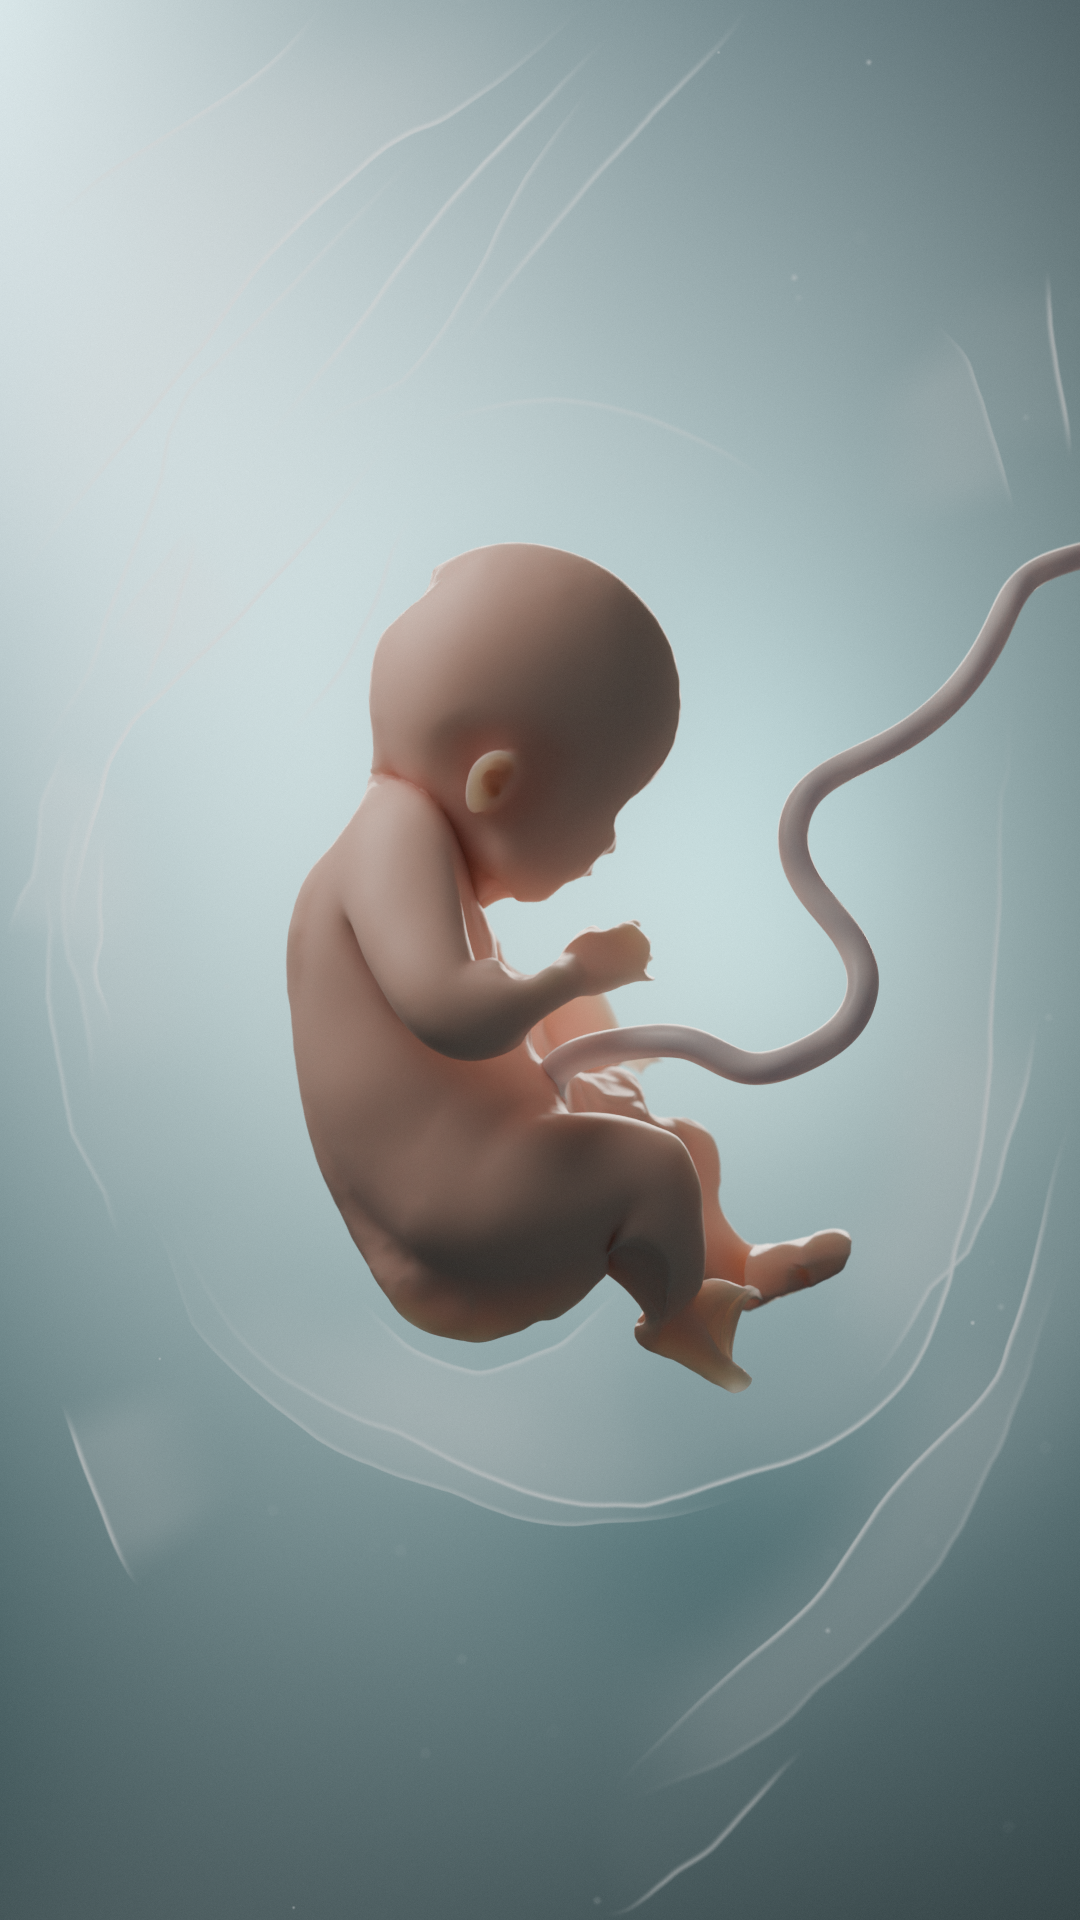
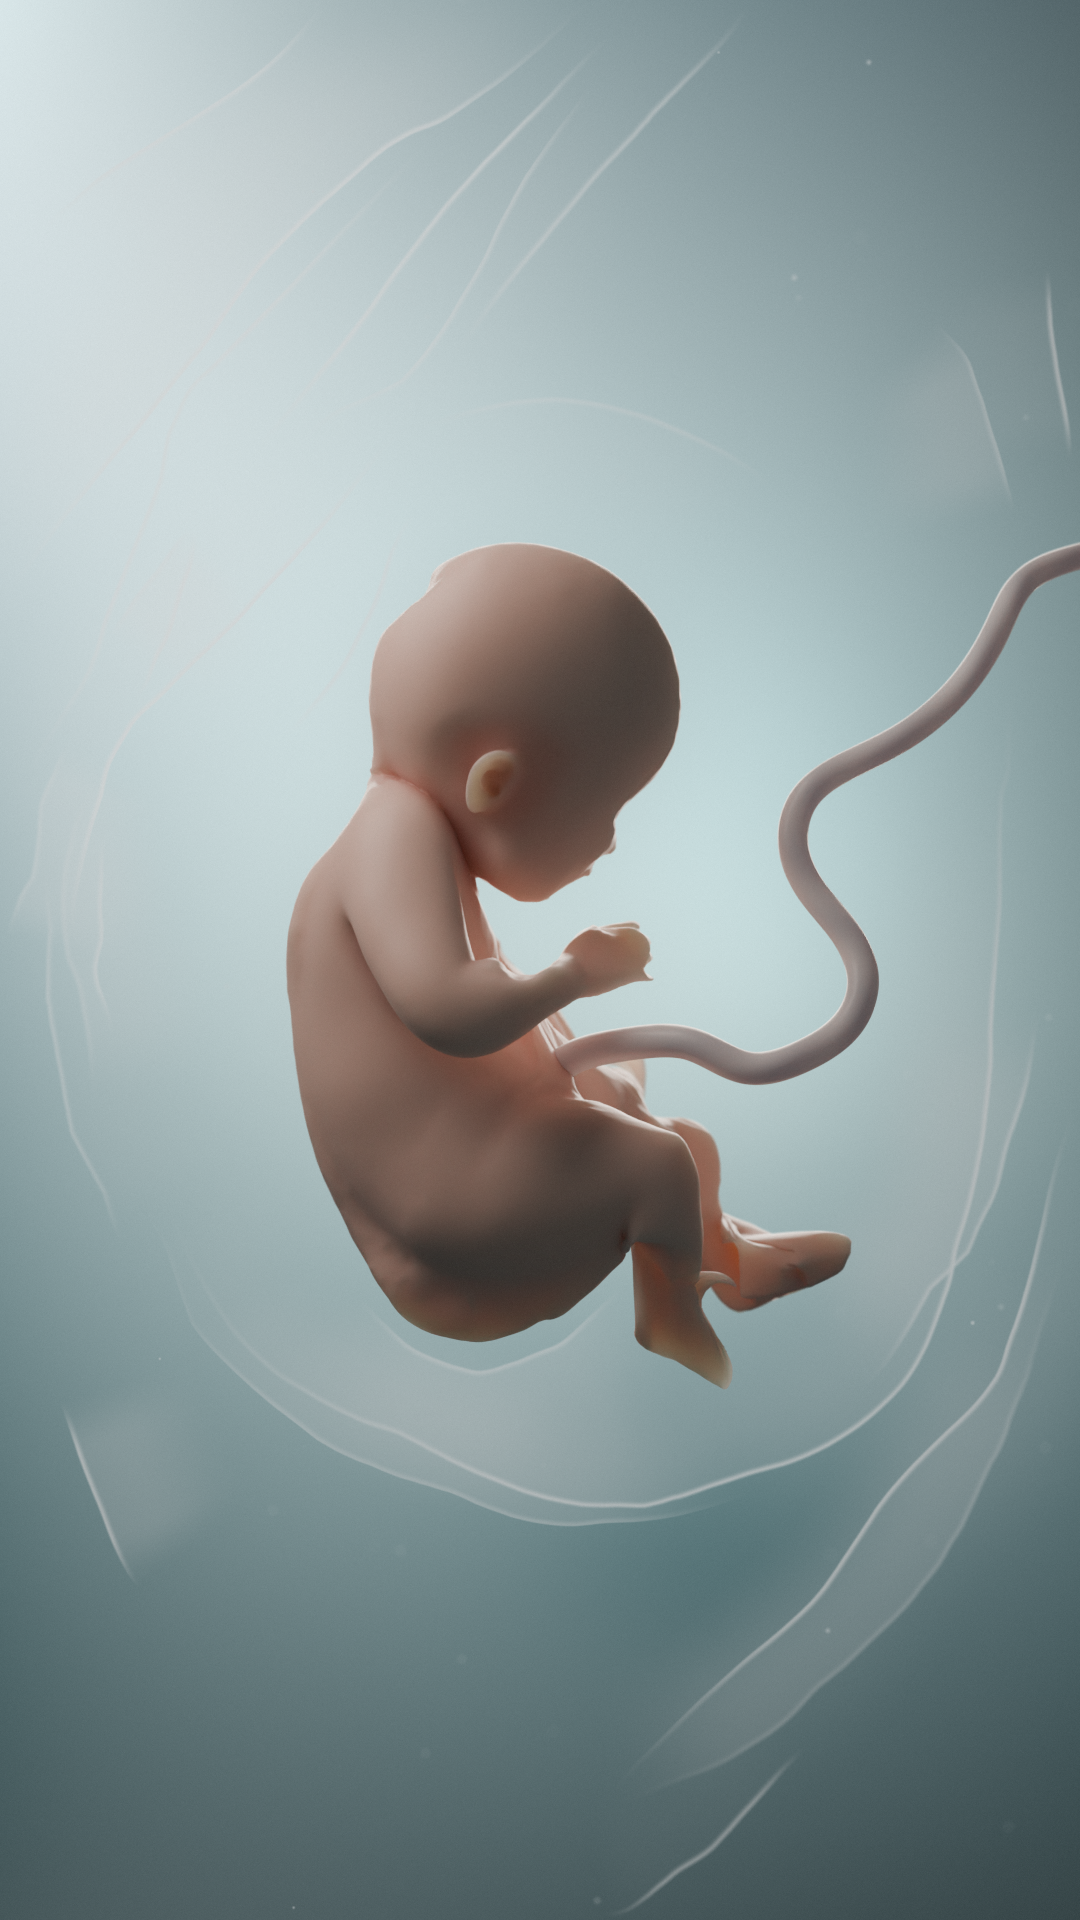
fit_silhouette --retract: outside vertices retract toward their own body part (true IoU 0.960)
Vertices that land outside the reference move along the ray toward their own
part's projected centroid (trunk, head, left/right arm and leg) to the first
point inside the reference, so gaps between parts open instead of stretching.

Claude-Session: https://claude.ai/code/session_012GPESLoAzkgxi7MKnnsx3V

Changed region(s): [[0.55, 0.625, 0.7639, 0.75], [0.4583, 0.4688, 0.6111, 0.5938], [0.4278, 0.4375, 0.4583, 0.4688]]

diff --git a/fetal-growth-explorer/blender/scripts/fit_silhouette.py b/fetal-growth-explorer/blender/scripts/fit_silhouette.py
@@ -72,6 +72,8 @@ def main():
     ap = argparse.ArgumentParser()
     ap.add_argument("--rounds", type=int, default=7)
     ap.add_argument("--outside", type=float, default=1.5, help="px outside the reference that pulls any vertex in")
+    ap.add_argument("--retract", action="store_true", help="outside vertices retract toward their own body part")
+    ap.add_argument("--cap-hole", dest="cap_hole", type=float, default=60.0, help="max retraction per round, px")
     ap.add_argument("--cap", type=float, default=28.0, help="max move per round, px at 1080x1920")
     ap.add_argument("--smooth", type=int, default=12, help="Laplacian rounds on the displacement field")
     args = ap.parse_args()
@@ -99,6 +101,21 @@ def main():
 
     rig = mhfit.Rig(arm, ob)
     rig.read_pose(arm)
+    import re as _re
+
+    def _family(name):
+        n = name.lower()
+        side = "L" if n.endswith(".l") else "R" if n.endswith(".r") else ""
+        if _re.search("upperleg|lowerleg|foot|toe", n):
+            return "leg" + side
+        if _re.search("upperarm|lowerarm|wrist|finger|metacarpal|thumb", n):
+            return "arm" + side
+        if _re.search("head|neck|jaw|eye|ear|tongue|oris|levator|temporalis|special|lip|cheek|nose|brow", n):
+            return "head"
+        return "trunk"
+
+    fams = np.array([_family(rig.names[b]) for b in rig.W.argmax(1)])
+    part_of_vertex = fams
     S = rig.pose_matrices() @ np.linalg.inv(rig.rest)  # armature-space skinning
     A = np.einsum("vb,bij->vij", rig.W, S[:, :3, :3])  # per-vertex linear part
     A_inv = np.linalg.inv(A)
@@ -114,7 +131,8 @@ def main():
         from scipy.ndimage import map_coordinates as _mc
 
         s_all = _mc(sdf, np.vstack([np.clip(uv_all[:, 1], 0, FRAME[1] - 1), np.clip(uv_all[:, 0], 0, FRAME[0] - 1)]), order=1)
-        idx = np.union1d(idx, np.where(s_all > args.outside)[0])
+        outside = np.where(s_all > args.outside)[0]
+        idx = np.union1d(idx, outside)
         uv, depth = project_points(P[idx], HERO, FRAME)
         # sub-pixel samples of the reference distance field
         from scipy.ndimage import map_coordinates
@@ -123,8 +141,30 @@ def main():
         d = map_coordinates(sdf, coords, order=1)
         du = -d * map_coordinates(gx, coords, order=1)
         dv = -d * map_coordinates(gy, coords, order=1)
+        if args.retract:
+            # a vertex outside the reference retracts toward its own body part
+            # (belly toward the trunk, forearm toward the arm): the first point
+            # along that ray that lies inside the reference
+            fam = part_of_vertex
+            cen = {k: uv_all[fam == k].mean(0) for k in np.unique(fam)}
+            sel = np.where(np.isin(idx, outside))[0]
+            for k in sel:
+                v = idx[k]
+                c = cen[fam[v]]
+                dirv = c - uv[k]
+                L = np.hypot(*dirv)
+                if L < 1e-3:
+                    continue
+                dirv /= L
+                steps = np.arange(1, min(args.cap_hole, L) + 1)
+                pts = uv[k][None, :] + steps[:, None] * dirv[None, :]
+                sv = map_coordinates(sdf, np.vstack([np.clip(pts[:, 1], 0, FRAME[1] - 1), np.clip(pts[:, 0], 0, FRAME[0] - 1)]), order=1)
+                hit = np.where(sv <= 0)[0]
+                if len(hit):
+                    du[k], dv[k] = steps[hit[0]] * dirv[0], steps[hit[0]] * dirv[1]
         mag = np.hypot(du, dv)
-        scale = np.minimum(1.0, args.cap / np.maximum(mag, 1e-6))
+        cap = np.where(np.isin(idx, outside), args.cap_hole if args.retract else args.cap, args.cap)
+        scale = np.minimum(1.0, cap / np.maximum(mag, 1e-6))
         du, dv = du * scale, dv * scale
         # pixel motion -> world motion in the image plane at each vertex's depth
         dw = np.zeros((len(idx), 3))
